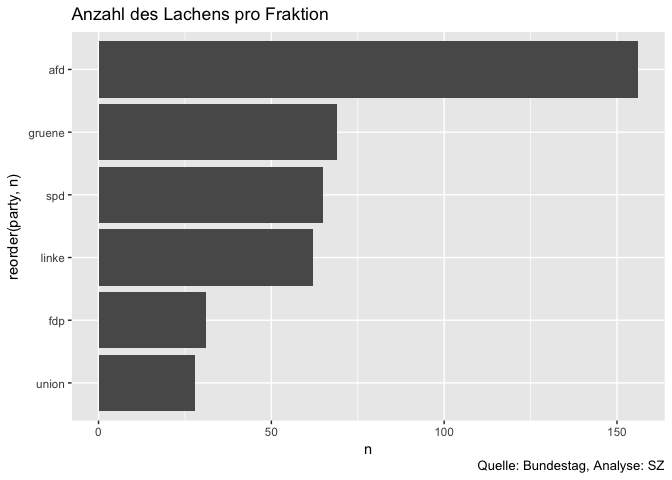
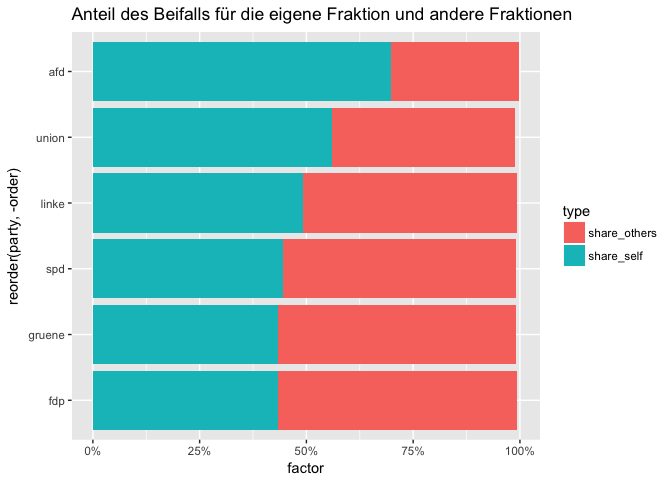
update

diff --git a/readme.md b/readme.md
@@ -3,14 +3,18 @@ Daten zu den Bundestagsprotokollen
 Katharina Brunner und Martina Schories
 1.  April 2018
 
--   [Variables](#variables)
+-   [Beschreibung der Daten](#beschreibung-der-daten)
+-   [Beifall](#beifall)
+    -   [Wieviel klatschen die Fraktionen für sich selbst und wieviel für die anderen?](#wieviel-klatschen-die-fraktionen-für-sich-selbst-und-wieviel-für-die-anderen)
+    -   [Wenn eine Partei für andere klatscht, wie oft klatscht dann die ganze Fraktion und wann nur Teile einer Fraktion?](#wenn-eine-partei-für-andere-klatscht-wie-oft-klatscht-dann-die-ganze-fraktion-und-wann-nur-teile-einer-fraktion)
+    -   [Wie viel klatschen die Fraktionen für andere?](#wie-viel-klatschen-die-fraktionen-für-andere)
 -   [Lachen](#lachen)
     -   [Welche Fraktion lacht wie oft?](#welche-fraktion-lacht-wie-oft)
     -   [Über wen lacht die AfD?](#über-wen-lacht-die-afd)
-    -   [Wen lachen die anderen Parteien aus?](#wen-lachen-die-anderen-parteien-aus)
+    -   [Bei welchen Rednern lachen die Fraktionen (ohne AfD)?](#bei-welchen-rednern-lachen-die-fraktionen-ohne-afd)
 
-Variables
----------
+Beschreibung der Daten
+----------------------
 
 <table style="width:100%;">
 <colgroup>
@@ -126,10 +130,102 @@ library(dplyr)
 
 ``` r
 library(ggplot2)
+library(tidyr)
 
 # import data
 df <- read.csv("data/bundestagsprotokolle_19.csv", sep = "\t", stringsAsFactors = F)
 ```
+
+Beifall
+-------
+
+### Wieviel klatschen die Fraktionen für sich selbst und wieviel für die anderen?
+
+``` r
+party_vector <- c("afd", "fdp", "gruene", "linke", "spd", "union")
+
+df_beifall_self <- df %>%  
+  filter(type == "beifall", party == speaker_party) %>% 
+  count(party) %>% 
+  rename(self = n)
+
+df_beifall_others <- df %>% 
+  filter(type == "beifall", party != speaker_party) %>% 
+  count(party)  %>% 
+  rename(others = n)
+
+df_beifall_all <- df %>%
+  filter(type == "beifall") %>% 
+  count(party) %>% 
+  rename(all = n)
+
+df_beifall_all %>% 
+  left_join(df_beifall_self, by = "party") %>% 
+  left_join(df_beifall_others, by = "party") %>% 
+  mutate(share_self = self/all,
+         share_others = others/all) %>% 
+  filter(party %in% party_vector) %>% 
+  arrange(desc(share_self)) %>% 
+  mutate(order = row_number()) %>% 
+  tidyr::gather(type, factor, 5:6) %>% 
+  ggplot(aes(x = reorder(party, -order), y = factor, group = type, fill = type)) +
+    geom_bar(stat = "identity") +
+    scale_y_continuous(labels = scales::percent) +
+    coord_flip() +
+    labs(title = "Anteil des Beifalls für die eigene Fraktion und andere Fraktionen")
+```
+
+![](readme_files/figure-markdown_github/unnamed-chunk-2-1.png)
+
+### Wenn eine Partei für andere klatscht, wie oft klatscht dann die ganze Fraktion und wann nur Teile einer Fraktion?
+
+Die AfD klatscht deutlich weniger für andere. Und wenn sie es doch tut, dann sind das vor allem einzelne Abgeordnete oder nur Teile der Fraktion.
+
+``` r
+df %>% 
+  filter(type == "beifall", party != speaker_party) %>% 
+  count(party, party_action) %>% 
+  spread(party_action, n) %>% 
+  mutate(sum =  `0` +`1`) %>% 
+  arrange(desc(sum)) %>% 
+  mutate(order = row_number()) %>% 
+  rename(ganze_partei = `0`, teile_der_partei = `1`) %>% 
+  gather(party_action, value, -party, -sum, -order) %>% 
+  ggplot(aes(x = reorder(party, -order), y = value, group = party_action, fill = party_action)) +
+  geom_bar(stat = "identity") +
+  coord_flip()
+```
+
+    ## Warning: Removed 1 rows containing missing values (position_stack).
+
+![](readme_files/figure-markdown_github/unnamed-chunk-3-1.png)
+
+### Wie viel klatschen die Fraktionen für andere?
+
+Und wieviel Aufmerksamkeit bekommt die AfD von den anderen Parteien?
+
+``` r
+df %>%  
+  filter(type == "beifall", party != "alle", party != speaker_party) %>% 
+  count(party, speaker_party) %>% 
+  filter(party %in% party_vector, speaker_party %in% party_vector) %>% 
+  spread(speaker_party, n) %>% 
+  rowwise() %>% 
+  mutate(nicht_afd = sum(fdp, gruene, linke, spd, union, na.rm= TRUE)) %>% 
+  arrange(desc(nicht_afd)) %>% 
+  mutate(order = row_number()) %>% 
+  select(party, afd, nicht_afd, order) %>% 
+  gather(type, value, -order, -party) %>% 
+  ggplot(aes(x = reorder(party, -order), y = value, fill = type, group = desc(type))) +
+  geom_bar(stat = "identity") +
+  coord_flip() +
+  labs(title= "Wie oft die Fraktionen für die AfD oder die anderen Fraktionen klatschen",
+       caption = "Quelle: Bundestag, Analyse: SZ")
+```
+
+    ## Warning: Removed 1 rows containing missing values (position_stack).
+
+![](readme_files/figure-markdown_github/unnamed-chunk-4-1.png)
 
 Lachen
 ------
@@ -147,7 +243,7 @@ df %>%
        caption = "Quelle: Bundestag, Analyse: SZ")
 ```
 
-![](readme_files/figure-markdown_github/unnamed-chunk-2-1.png)
+![](readme_files/figure-markdown_github/unnamed-chunk-5-1.png)
 
 ### Über wen lacht die AfD?
 
@@ -166,9 +262,9 @@ df %>%
        caption = "Quelle: Bundestag, Analyse: SZ")
 ```
 
-![](readme_files/figure-markdown_github/unnamed-chunk-3-1.png)
+![](readme_files/figure-markdown_github/unnamed-chunk-6-1.png)
 
-### Wen lachen die anderen Parteien aus?
+### Bei welchen Rednern lachen die Fraktionen (ohne AfD)?
 
 Die anderen Parteien (insbesondere die SPD) lachen auch vor allem die AfD aus.
 
